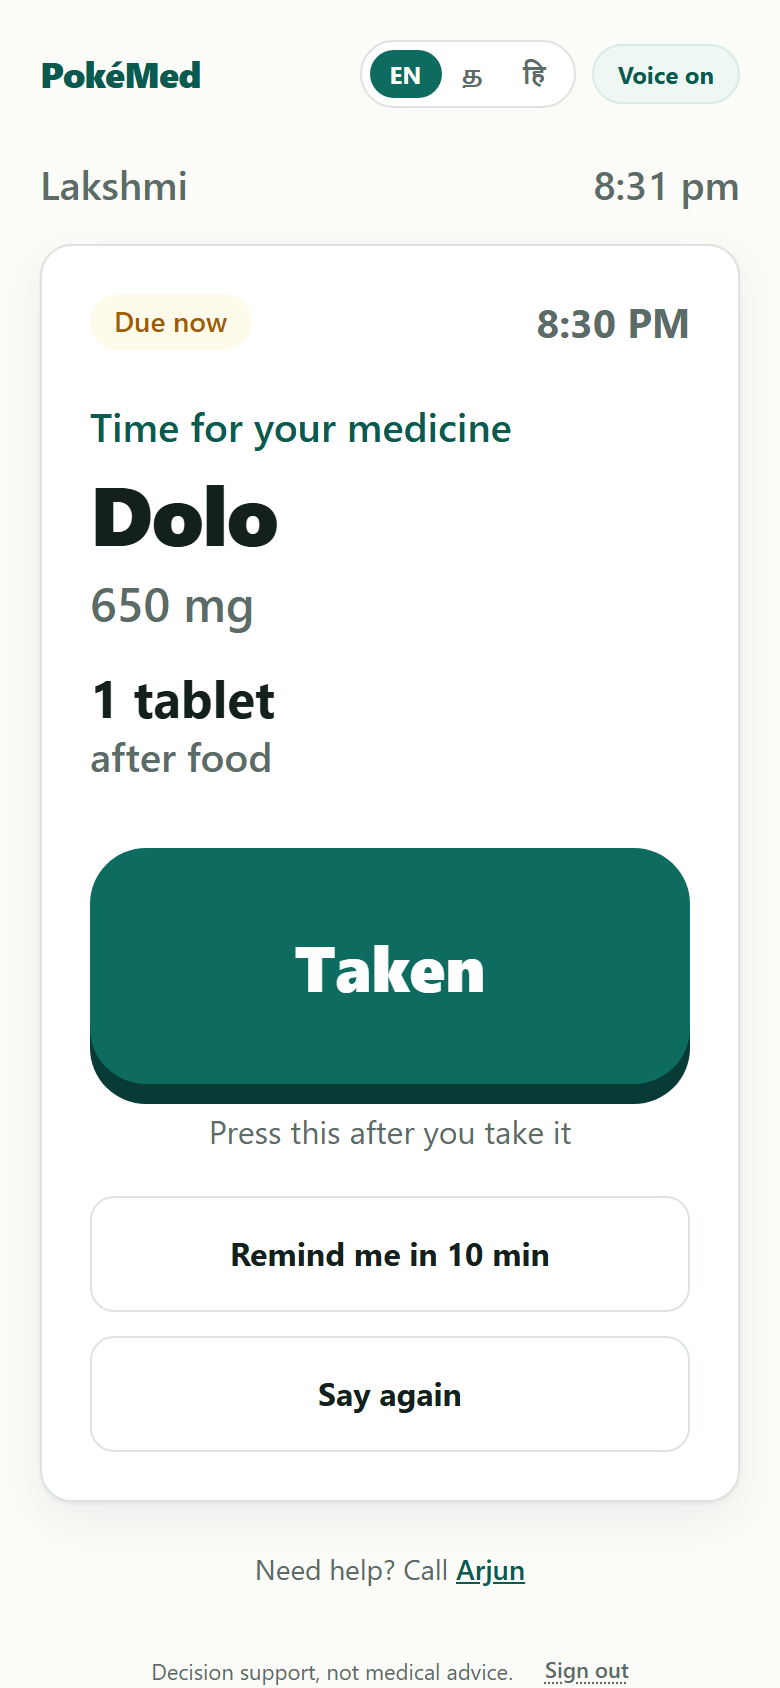
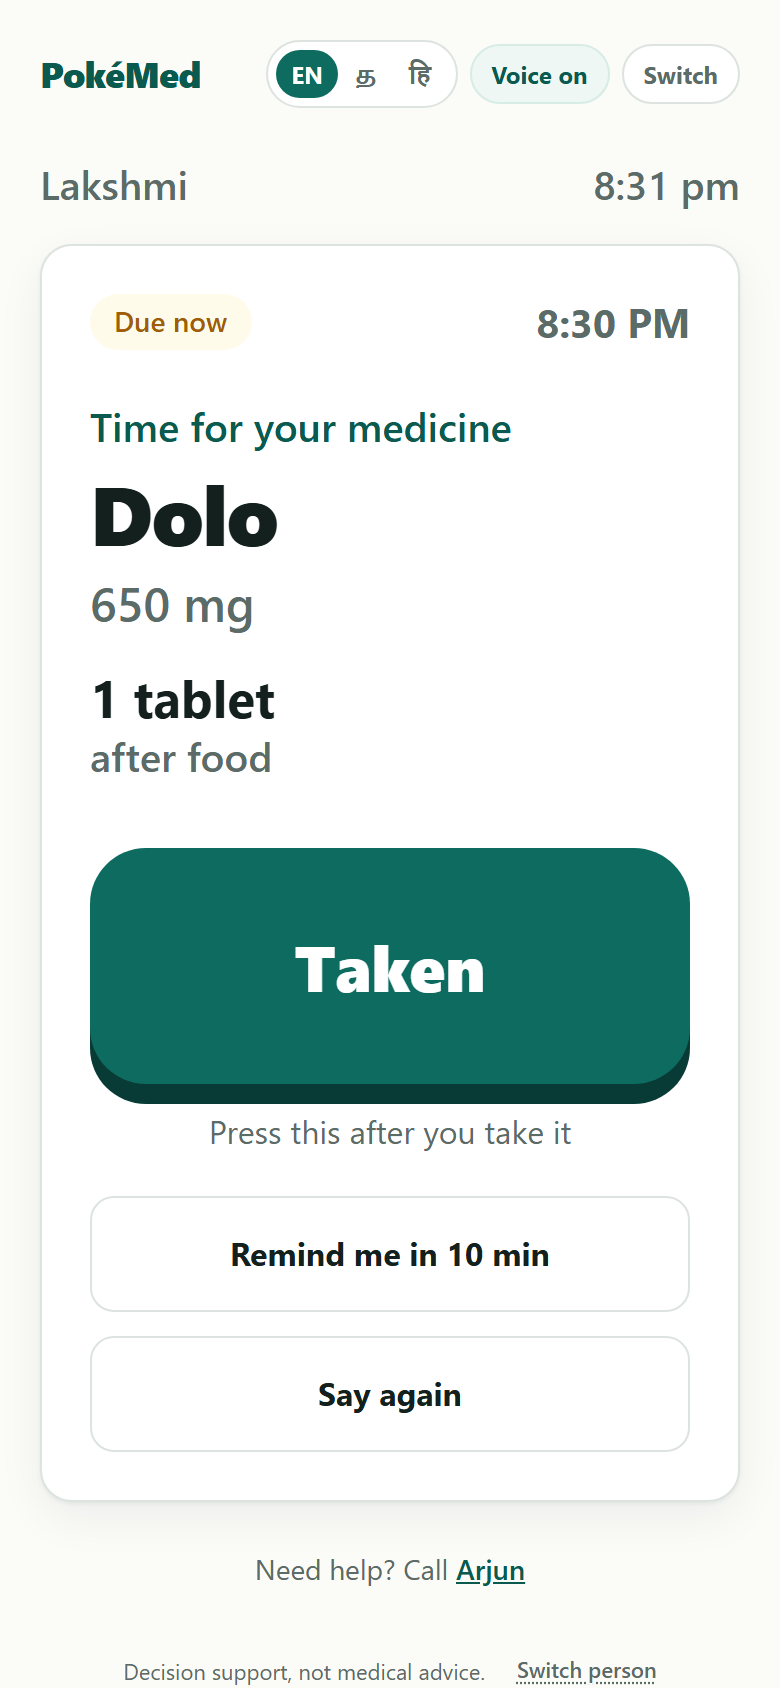
Choose a person before the PIN pad, and make switching easy
Opening the app no longer preselects the elder. The sign-in screen now starts with two large cards; the keypad appears only after a person is chosen. /login?switch=1 bypasses the signed-in redirect, and the elder screen gets a visible Switch control.

diff --git a/app/login/page.tsx b/app/login/page.tsx
@@ -11,13 +11,15 @@ const PEOPLE = {
   elder: {
     name: "Lakshmi",
     initial: "L",
-    subtitle: "Her own screen",
+    subtitle: "Her own medicine screen",
+    detail: "Today's doses and one big Taken button",
     demoPin: "1234",
   },
   caregiver: {
     name: "Arjun",
     initial: "A",
-    subtitle: "Family dashboard",
+    subtitle: "The family dashboard",
+    detail: "Scan, schedule, report, and her screen",
     demoPin: "2468",
   },
 } as const;
@@ -26,7 +28,9 @@ export default function LoginPage() {
   const router = useRouter();
   const [next, setNext] = useState<string | null>(null);
 
-  const [who, setWho] = useState<Who>("elder");
+  // Nobody is selected until a person is chosen. Opening the app must never
+  // drop someone into the elder screen by accident.
+  const [who, setWho] = useState<Who | null>(null);
   const [pin, setPin] = useState("");
   const [error, setError] = useState("");
   const [busy, setBusy] = useState(false);
@@ -36,9 +40,9 @@ export default function LoginPage() {
     setNext(target && target.startsWith("/") ? target : null);
   }, []);
 
-  const person = PEOPLE[who];
+  const person = who ? PEOPLE[who] : null;
 
-  async function signIn(value: string, role: Who = who) {
+  async function signIn(value: string, role: Who) {
     setBusy(true);
     setError("");
     try {
@@ -65,7 +69,7 @@ export default function LoginPage() {
   }
 
   function press(key: string) {
-    if (busy) return;
+    if (busy || !who) return;
     setError("");
 
     if (key === "clear") {
@@ -79,7 +83,7 @@ export default function LoginPage() {
 
     const value = (pin + key).slice(0, 4);
     setPin(value);
-    if (value.length === 4) void signIn(value);
+    if (value.length === 4) void signIn(value, who);
   }
 
   function choose(role: Who) {
@@ -105,118 +109,144 @@ export default function LoginPage() {
           </p>
         </div>
 
-        <div className="mt-7 grid grid-cols-2 gap-3" role="group" aria-label="Choose who is signing in">
-          {(Object.keys(PEOPLE) as Who[]).map((role) => {
-            const profile = PEOPLE[role];
-            const active = role === who;
-            return (
+        {!who || !person ? (
+          <div className="mt-8 flex flex-col gap-3">
+            {(Object.keys(PEOPLE) as Who[]).map((role) => {
+              const profile = PEOPLE[role];
+              return (
+                <button
+                  key={role}
+                  type="button"
+                  onClick={() => choose(role)}
+                  className="card flex w-full items-center gap-4 p-5 text-left transition hover:border-brand-100 hover:bg-brand-50 sm:p-6"
+                >
+                  <span
+                    className={`grid h-14 w-14 shrink-0 place-items-center rounded-2xl text-2xl font-bold text-white ${
+                      role === "elder" ? "bg-brand-600" : "bg-ink"
+                    }`}
+                  >
+                    {profile.initial}
+                  </span>
+                  <span className="min-w-0 flex-1">
+                    <span className="block text-lg font-bold text-ink">{profile.name}</span>
+                    <span className="block text-sm text-muted">{profile.subtitle}</span>
+                    <span className="mt-0.5 block text-xs text-muted">{profile.detail}</span>
+                  </span>
+                  <span className="shrink-0 text-sm font-semibold text-brand-700">Enter PIN →</span>
+                </button>
+              );
+            })}
+
+            <p className="mt-2 text-center text-xs leading-relaxed text-muted">
+              No passwords. Four digits each, with a keypad big enough to use at arm&apos;s length.
+            </p>
+          </div>
+        ) : (
+          <section className="card mt-6 p-6 sm:p-8" aria-labelledby="pin-title">
+            <div className="flex items-center justify-between gap-3">
               <button
-                key={role}
                 type="button"
-                onClick={() => choose(role)}
-                aria-pressed={active}
-                className={`flex items-center gap-3 rounded-2xl border p-3.5 text-left transition sm:p-4 ${
-                  active
-                    ? "border-brand-600 bg-brand-50 ring-2 ring-brand-100"
-                    : "border-line bg-white hover:bg-paper"
-                }`}
+                onClick={() => {
+                  setWho(null);
+                  setPin("");
+                  setError("");
+                }}
+                className="text-sm font-semibold text-muted underline decoration-dotted underline-offset-2 hover:text-ink"
               >
+                ← Not {person.name}?
+              </button>
+              <span className="inline-flex items-center gap-2 text-xs font-semibold text-muted">
                 <span
-                  className={`grid h-11 w-11 shrink-0 place-items-center rounded-xl text-lg font-bold text-white ${
-                    role === "elder" ? "bg-brand-600" : "bg-ink"
+                  className={`grid h-6 w-6 place-items-center rounded-lg text-[11px] font-bold text-white ${
+                    who === "elder" ? "bg-brand-600" : "bg-ink"
                   }`}
                 >
-                  {profile.initial}
+                  {person.initial}
                 </span>
-                <span className="min-w-0">
-                  <span className="block truncate text-[15px] font-bold text-ink">{profile.name}</span>
-                  <span className="block truncate text-xs text-muted">{profile.subtitle}</span>
-                </span>
-              </button>
-            );
-          })}
-        </div>
+                {person.subtitle}
+              </span>
+            </div>
 
-        <section className="card mt-4 p-6 sm:p-8" aria-labelledby="pin-title">
-          <h2 id="pin-title" className="text-center text-lg font-bold text-ink">
-            {person.name}&apos;s 4-digit PIN
-          </h2>
+            <h2 id="pin-title" className="mt-4 text-center text-lg font-bold text-ink">
+              {person.name}&apos;s 4-digit PIN
+            </h2>
 
-          <div className="mt-5 flex items-center justify-center gap-3.5" aria-hidden="true">
-            {[0, 1, 2, 3].map((i) => (
-              <span
-                key={i}
-                className={`h-5 w-5 rounded-full transition ${
-                  i < pin.length ? "scale-110 bg-brand-600" : "bg-line"
-                }`}
-              />
-            ))}
-          </div>
-          <p className="sr-only" aria-live="polite">
-            {pin.length} of 4 digits entered for {person.name}
-          </p>
+            <div className="mt-5 flex items-center justify-center gap-3.5" aria-hidden="true">
+              {[0, 1, 2, 3].map((i) => (
+                <span
+                  key={i}
+                  className={`h-5 w-5 rounded-full transition ${
+                    i < pin.length ? "scale-110 bg-brand-600" : "bg-line"
+                  }`}
+                />
+              ))}
+            </div>
+            <p className="sr-only" aria-live="polite">
+              {pin.length} of 4 digits entered for {person.name}
+            </p>
 
-          <div className="mx-auto mt-6 grid w-full max-w-[340px] grid-cols-3 gap-3">
-            {PIN_KEYS.map((key) => (
+            <div className="mx-auto mt-6 grid w-full max-w-[340px] grid-cols-3 gap-3">
+              {PIN_KEYS.map((key) => (
+                <button
+                  key={key}
+                  type="button"
+                  onClick={() => press(key)}
+                  disabled={busy}
+                  className="h-20 rounded-2xl border border-line bg-white text-3xl font-bold text-ink transition hover:bg-brand-50 disabled:opacity-50"
+                >
+                  {key}
+                </button>
+              ))}
               <button
-                key={key}
                 type="button"
-                onClick={() => press(key)}
+                onClick={() => press("clear")}
+                disabled={busy}
+                className="h-20 rounded-2xl border border-line bg-paper text-sm font-semibold text-muted transition hover:bg-white disabled:opacity-50"
+              >
+                Clear
+              </button>
+              <button
+                type="button"
+                onClick={() => press("0")}
                 disabled={busy}
                 className="h-20 rounded-2xl border border-line bg-white text-3xl font-bold text-ink transition hover:bg-brand-50 disabled:opacity-50"
               >
-                {key}
+                0
               </button>
-            ))}
-            <button
-              type="button"
-              onClick={() => press("clear")}
-              disabled={busy}
-              className="h-20 rounded-2xl border border-line bg-paper text-sm font-semibold text-muted transition hover:bg-white disabled:opacity-50"
-            >
-              Clear
-            </button>
-            <button
-              type="button"
-              onClick={() => press("0")}
-              disabled={busy}
-              className="h-20 rounded-2xl border border-line bg-white text-3xl font-bold text-ink transition hover:bg-brand-50 disabled:opacity-50"
-            >
-              0
-            </button>
-            <button
-              type="button"
-              onClick={() => press("back")}
-              disabled={busy}
-              aria-label="Delete last digit"
-              className="h-20 rounded-2xl border border-line bg-paper text-2xl font-semibold text-muted transition hover:bg-white disabled:opacity-50"
-            >
-              ⌫
-            </button>
-          </div>
+              <button
+                type="button"
+                onClick={() => press("back")}
+                disabled={busy}
+                aria-label="Delete last digit"
+                className="h-20 rounded-2xl border border-line bg-paper text-2xl font-semibold text-muted transition hover:bg-white disabled:opacity-50"
+              >
+                ⌫
+              </button>
+            </div>
 
-          <div className="mt-5 min-h-[46px]" aria-live="polite">
-            {busy ? (
-              <p className="text-center text-sm font-semibold text-brand-700">Signing in…</p>
-            ) : error ? (
-              <p className="text-center text-sm font-semibold text-alert">{error}</p>
-            ) : (
-              <p className="text-center text-xs text-muted">
-                Demo PIN for {person.name} <strong className="text-ink">{person.demoPin}</strong>{" "}
-                <button
-                  type="button"
-                  onClick={() => {
-                    setPin(person.demoPin);
-                    void signIn(person.demoPin);
-                  }}
-                  className="ml-1 underline decoration-dotted underline-offset-2 hover:text-ink"
-                >
-                  Use it
-                </button>
-              </p>
-            )}
-          </div>
-        </section>
+            <div className="mt-5 min-h-[46px]" aria-live="polite">
+              {busy ? (
+                <p className="text-center text-sm font-semibold text-brand-700">Signing in…</p>
+              ) : error ? (
+                <p className="text-center text-sm font-semibold text-alert">{error}</p>
+              ) : (
+                <p className="text-center text-xs text-muted">
+                  Demo PIN for {person.name} <strong className="text-ink">{person.demoPin}</strong>{" "}
+                  <button
+                    type="button"
+                    onClick={() => {
+                      setPin(person.demoPin);
+                      void signIn(person.demoPin, who);
+                    }}
+                    className="ml-1 underline decoration-dotted underline-offset-2 hover:text-ink"
+                  >
+                    Use it
+                  </button>
+                </p>
+              )}
+            </div>
+          </section>
+        )}
 
         <p className="mt-5 text-center text-xs leading-relaxed text-muted">
           Prototype sign-in: PINs are scrypt-hashed, and the session is a signed, http-only cookie. There is no

diff --git a/app/elder/page.tsx b/app/elder/page.tsx
@@ -171,7 +171,7 @@ export default function ElderScreen() {
 
   async function signOut() {
     await fetch("/api/auth/logout", { method: "POST" });
-    window.location.href = "/login";
+    window.location.href = "/login?switch=1";
   }
 
   if (error) {
@@ -212,13 +212,13 @@ export default function ElderScreen() {
           <Link href="/" className="text-lg font-extrabold tracking-tight text-brand-700">
             PokéMed
           </Link>
-          <div className="flex items-center gap-2">
+          <div className="flex flex-wrap items-center justify-end gap-1.5">
             <div className="flex rounded-full border border-line bg-white p-1" role="group" aria-label={t.language}>
               {(["en", "ta", "hi"] as Lang[]).map((l) => (
                 <button
                   key={l}
                   onClick={() => setLang(l)}
-                  className={`rounded-full px-2.5 py-1 text-xs font-bold ${
+                  className={`rounded-full px-2 py-1 text-xs font-bold ${
                     lang === l ? "bg-brand-600 text-white" : "text-muted"
                   }`}
                   aria-pressed={lang === l}
@@ -229,12 +229,18 @@ export default function ElderScreen() {
             </div>
             <button
               onClick={() => setVoiceOn((v) => !v)}
-              className={`rounded-full border px-3 py-1.5 text-xs font-bold ${
+              className={`rounded-full border px-2.5 py-1.5 text-xs font-bold ${
                 voiceOn ? "border-brand-100 bg-brand-50 text-brand-700" : "border-line bg-white text-muted"
               }`}
               aria-pressed={voiceOn}
             >
               {t.voice} {voiceOn ? "on" : "off"}
+            </button>
+            <button
+              onClick={() => void signOut()}
+              className="rounded-full border border-line bg-white px-2.5 py-1.5 text-xs font-bold text-muted"
+            >
+              Switch
             </button>
           </div>
         </div>
@@ -361,7 +367,7 @@ export default function ElderScreen() {
             onClick={() => void signOut()}
             className="text-[11px] font-semibold text-muted underline decoration-dotted underline-offset-2 hover:text-ink"
           >
-            Sign out
+            Switch person
           </button>
         </div>
       </div>

diff --git a/middleware.ts b/middleware.ts
@@ -17,7 +17,8 @@ export async function middleware(req: NextRequest) {
   const session = await verifySession(req.cookies.get(COOKIE_NAME)?.value);
 
   if (pathname === "/login") {
-    if (session) {
+    const switching = req.nextUrl.searchParams.get("switch") === "1";
+    if (session && !switching) {
       return NextResponse.redirect(new URL(session.role === "elder" ? "/elder" : "/", req.url));
     }
     return NextResponse.next();

diff --git a/components/Nav.tsx b/components/Nav.tsx
@@ -39,7 +39,7 @@ export default function Nav() {
     setBusy(true);
     try {
       await fetch("/api/auth/logout", { method: "POST" });
-      router.replace("/login");
+      router.replace("/login?switch=1");
       router.refresh();
     } finally {
       setBusy(false);
